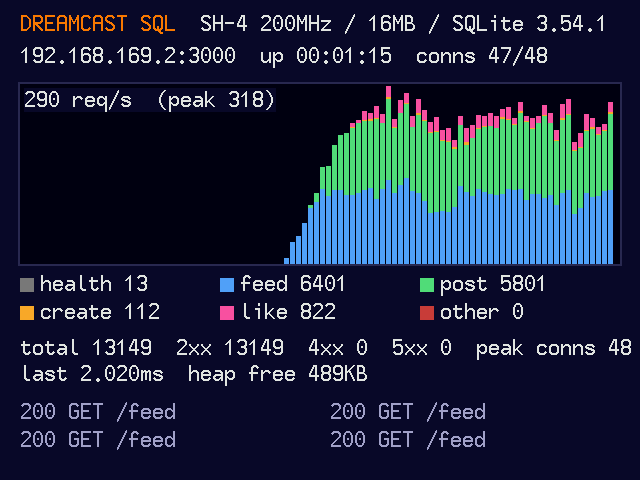
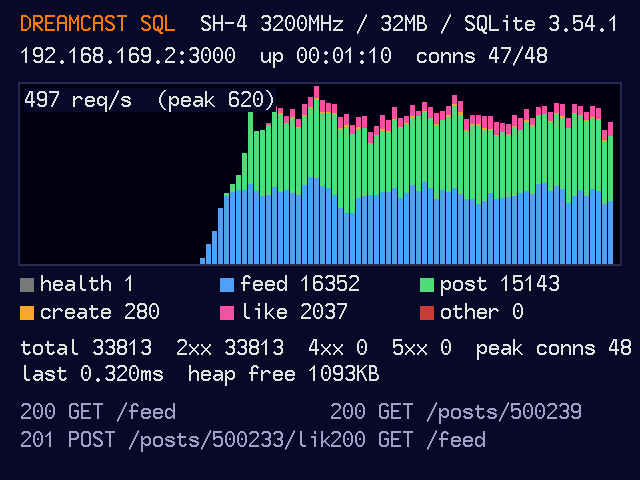
c-dreamcast-public: 3,200 MHz k6 result and a new dashboard screenshot
5,000 VUs behind nginx, Flycast on one core: 410 req/s, p95 19 ms, p99 24 ms, 0 errors.

diff --git a/submissions/c-dreamcast-public/README.md b/submissions/c-dreamcast-public/README.md
@@ -124,9 +124,9 @@ server answers `/health` a few seconds after `start.sh`.
 
 ![The Dreamcast's video output during a k6 run](dashboard.png)
 
-*The Dreamcast's screen during the 2,500-VU run below (at 200 MHz and 16 MB): requests per second for the last 100 seconds
-by endpoint (blue `/feed`, green `/posts/:id`, pink likes, orange creates), 47 of 48 connection slots
-in use, 489 KB of the 16 MB free.*
+*The Dreamcast's screen during the 5,000-VU run below, at 3,200 MHz with 32 MB: requests per second
+for the last 100 seconds by endpoint (blue `/feed`, green `/posts/:id`, pink likes, orange creates),
+47 of 48 connection slots in use.*
 
 Measured locally in Docker on an Apple-silicon Mac (arm64 Linux, so Flycast's arm64 dynarec, not the
 scoring box's x86-64 one), through `start.sh`, behind the challenge's `bench/nginx.conf`, with its own
@@ -145,11 +145,12 @@ Those two rows are at the stock 200 MHz and 16 MB, where the emulated SH-4 tops 
 requests/s. That turned out to be the only limit: the host CPU was mostly idle, and a faster network
 tick changed nothing. So `start.sh` now runs the SH-4 at 3,200 MHz (`SH4_CLOCK`; our Flycast patch
 stops Flycast resetting it to 200 MHz when the network adapter comes up) with the 32 MB RAM mod and
-a 16 MB page cache. With Flycast pinned to a single core, at 800 MHz (not yet re-run at 3,200):
+a 16 MB page cache. With Flycast pinned to a single core:
 
 | VUs | requests/s | p95 | p99 | errors |
 |---|---|---|---|---|
 | 5,000 (800 MHz, 32 MB) | 409 | 26 ms | 140 ms | 0.02 % |
+| 5,000 (3,200 MHz, 32 MB) | 410 | 19 ms | 24 ms | 0 % |
 
 On keep-alive connections straight to the guest (one core), throughput by SH-4 clock was 317 req/s
 at 200 MHz, 965 at 800, 1,137 at 1,600 and 1,328 at 3,200. Before the fixes above it failed at 150
